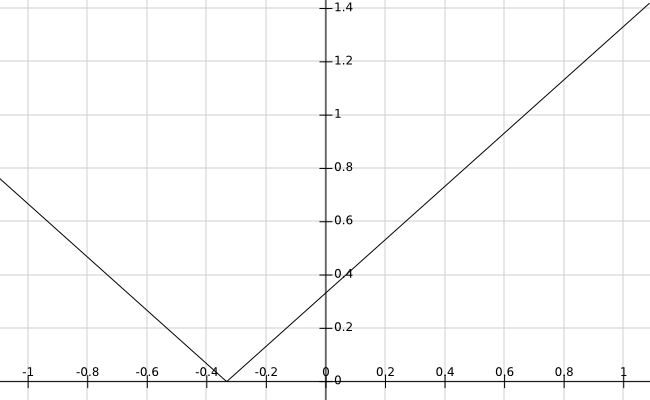
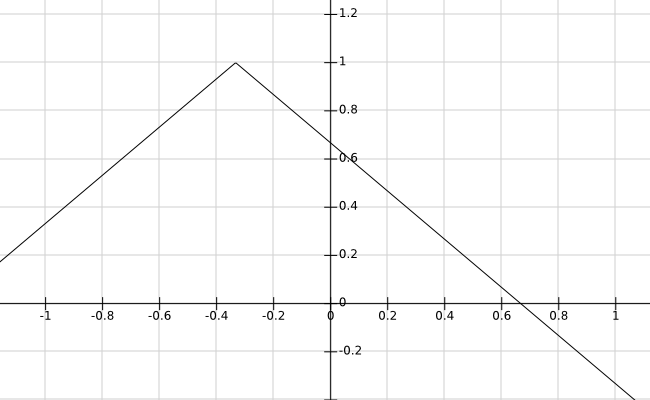
fnreps: abs(x+1/3)  -->  1 - abs(x+1/3)  so that max hits the hard point

diff --git a/aern2-fnreps/README.md b/aern2-fnreps/README.md
@@ -106,7 +106,7 @@ _(coming soon)_
 
 ### A very simple non-smooth function
 
-![abs](http://latex.codecogs.com/gif.latex?|x+1/3|)
+![abs](http://latex.codecogs.com/gif.latex?1-|x+1/3|)
 <img src="plots/abs.png?raw=true" width="150">
 
 #### Integral over ![unit-interval](http://latex.codecogs.com/gif.latex?[-1,1])
